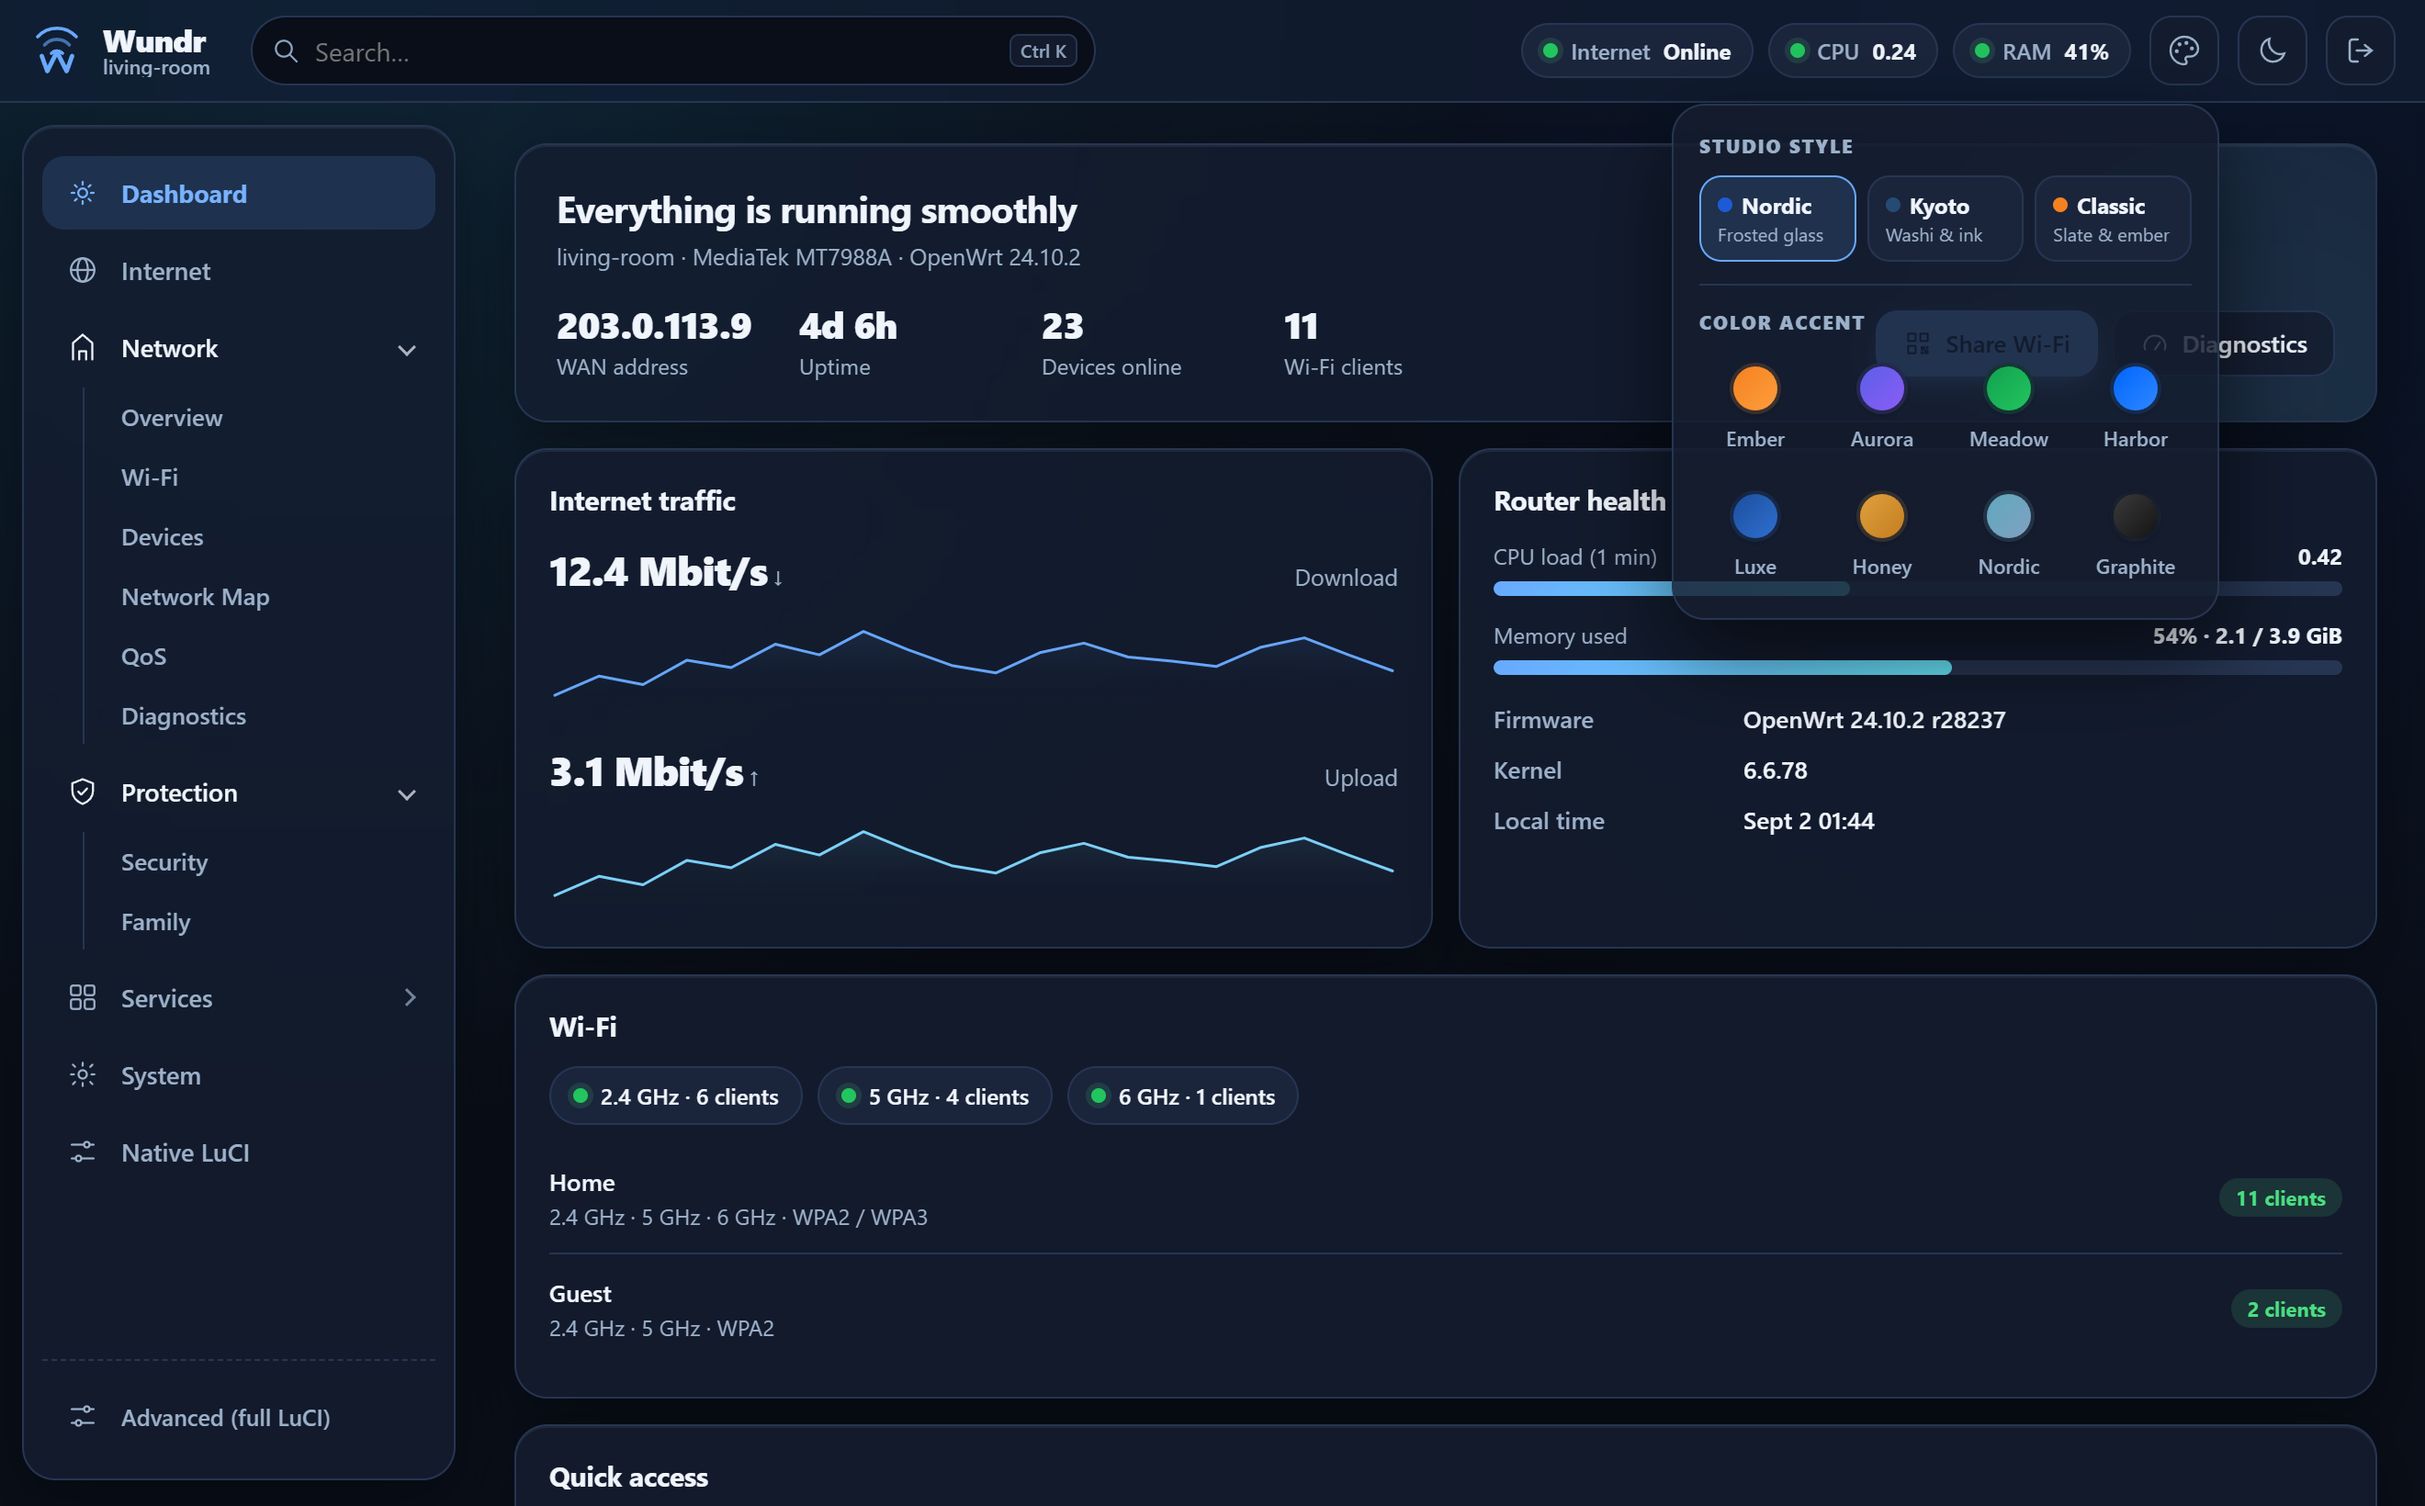
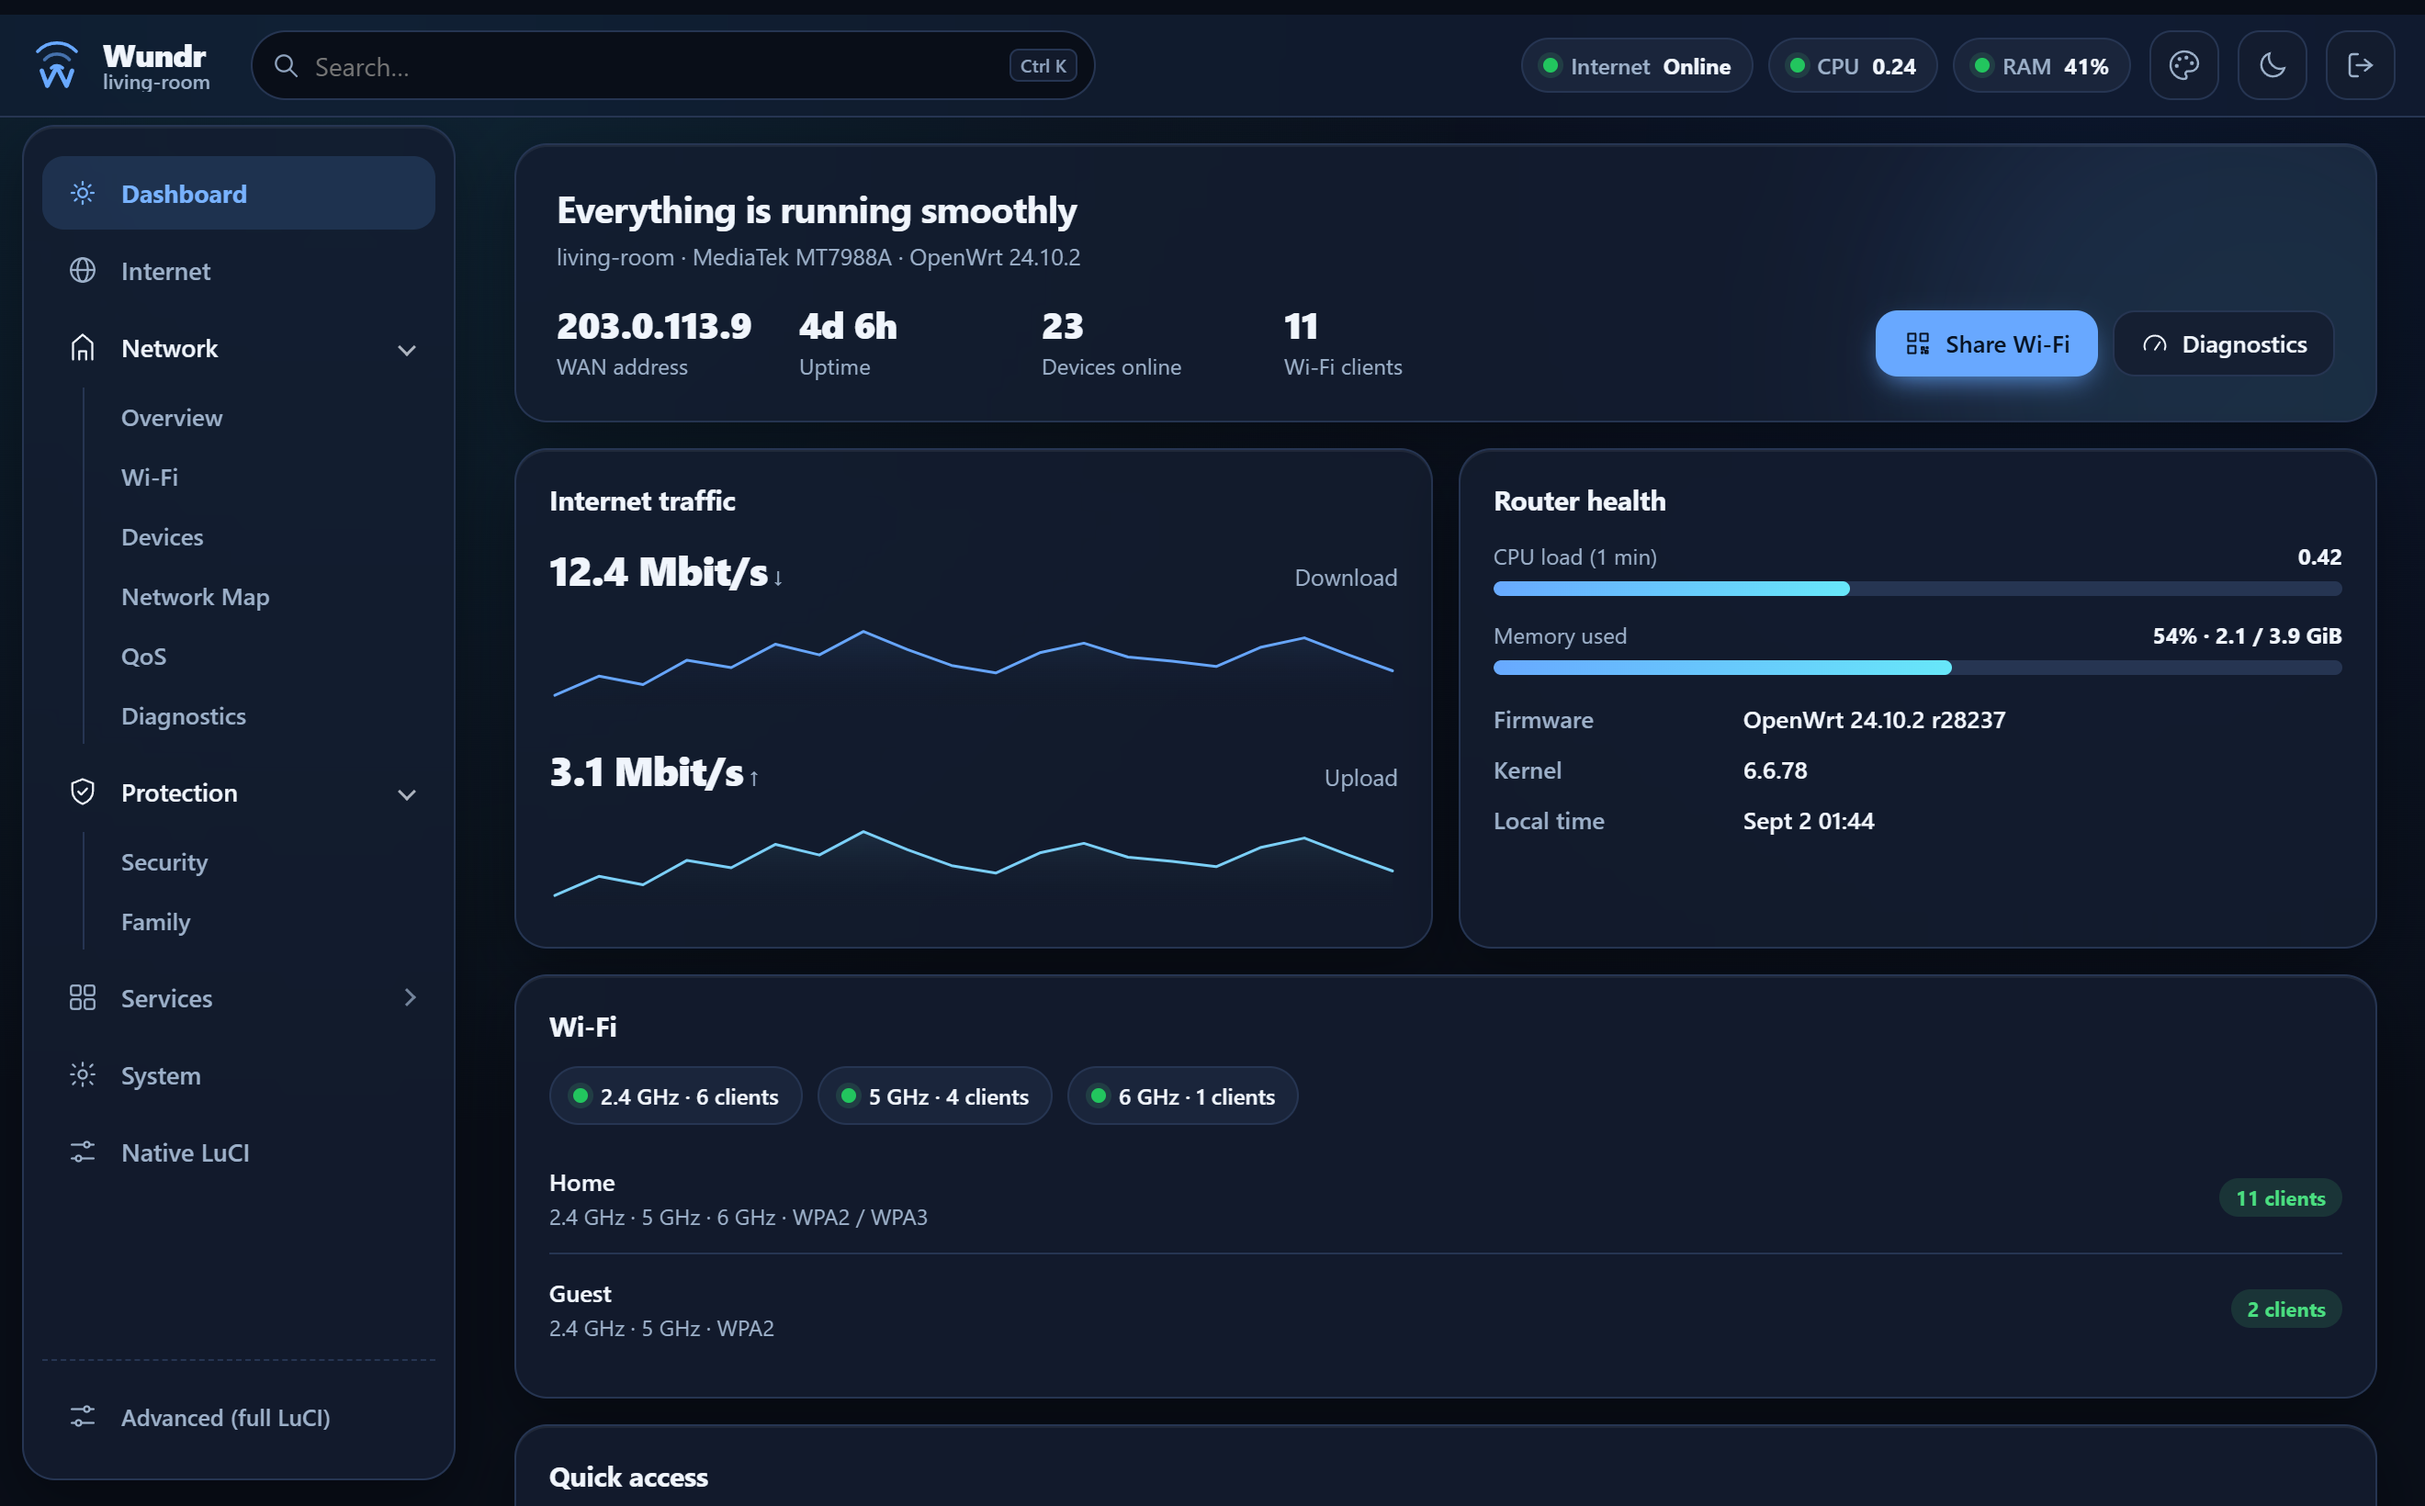
ci & docs: fix CI QR/artifact steps and clean up README/UI copy

diff --git a/luci-theme-wundr/htdocs/luci-static/wundr/shell.js b/luci-theme-wundr/htdocs/luci-static/wundr/shell.js
@@ -22,8 +22,8 @@
 	var GRAPHITE_KEYS = Object.keys(GRAPHITE.dark);
 	var STUDIOS = [
 		{ key: 'nordic',  label: 'Nordic',  sub: 'Frosted glass', c: '#1d5bd6' },
-		{ key: 'kyoto',   label: 'Kyoto',   sub: 'Washi & ink',   c: '#264b73' },
-		{ key: 'current', label: 'Classic', sub: 'Slate & ember', c: '#f48120' }
+		{ key: 'kyoto',   label: 'Kyoto',   sub: 'Paper & ink',   c: '#264b73' },
+		{ key: 'current', label: 'Classic', sub: 'Slate & orange',c: '#f48120' }
 	];
 
 	var currentStudio = 'nordic';
@@ -68,7 +68,7 @@
 		return 'rgba(' + r[0] + ', ' + r[1] + ', ' + r[2] + ', ' + (dark ? '0.18' : '0.14') + ')';
 	}
 
-	/* ---------- theme, studio triad & palette ---------- */
+	/* ---------- theme & palette ---------- */
 	function isDark() { return d.documentElement.getAttribute('data-theme') === 'dark'; }
 
 	function clearInlineAppearance(root) {
@@ -161,10 +161,10 @@
 		if (!pop) return;
 		var hasCustomAccent = !!currentPalette && !(currentStudio === 'current' && currentPalette === 'Splunk');
 		pop.innerHTML =
-			'<div class="wb-popover-h"><span>Studio style</span></div>' +
+			'<div class="wb-popover-h"><span>Theme</span></div>' +
 			'<div class="wb-studio-grid"></div>' +
-			'<div class="wb-popover-h"><span>Color accent</span>' +
-				(hasCustomAccent ? '<button type="button" class="wb-popover-reset">Studio default</button>' : '') +
+			'<div class="wb-popover-h"><span>Accent</span>' +
+				(hasCustomAccent ? '<button type="button" class="wb-popover-reset">Reset</button>' : '') +
 			'</div>' +
 			'<div class="wb-palette-grid"></div>';
 

diff --git a/luci-theme-wundr/htdocs/luci-static/wundr/cascade.css b/luci-theme-wundr/htdocs/luci-static/wundr/cascade.css
@@ -48,7 +48,7 @@
   color-scheme: dark;
 }
 
-/* Studio Triad: Nordic Glass (spatial frosted acrylic + floating island) */
+/* Theme: Nordic (frosted glass + floating sidebar) */
 [data-studio="nordic"] {
   --wb-bg: #eaf0f7; --wb-bg-2: #dfe8f3;
   --wb-surface: rgba(255, 255, 255, .88); --wb-surface-2: #f1f5fb;
@@ -83,7 +83,7 @@
   --wb-focus-ring: 0 0 0 3px rgba(104, 168, 255, .38);
 }
 
-/* Studio Triad: Kyoto Sumi (washi paper, Ai-iro indigo & de-boxed ledgers) */
+/* Theme: Kyoto (warm paper, indigo & ledger rows) */
 [data-studio="kyoto"] {
   --wb-bg: #f2efe7; --wb-bg-2: #e7e3d8;
   --wb-surface: #faf9f5; --wb-surface-2: #efece3;
@@ -778,7 +778,7 @@ body.modal-overlay-active #modal_overlay { opacity: 1; visibility: visible; }
 }
 @media (max-width: 480px) { .wb-content .hide-xs { display: none !important; } }
 
-/* Studio Triad architectural surfaces & geometry */
+/* Theme layout overrides */
 [data-studio="nordic"] body.wundr {
   background-image: radial-gradient(circle at 14% 0%, rgba(56, 189, 248, .13), transparent 44%),
                     radial-gradient(circle at 86% 10%, rgba(29, 91, 214, .10), transparent 40%);

diff --git a/smoke/contrast-check.js b/smoke/contrast-check.js
@@ -110,7 +110,7 @@ check('on-accent #14151a on Splunk accent', '#14151a', '#f48120');
 check('Splunk accent on dark surface', '#f48120', DARK_SURFACE);
 check('Splunk accent on dark soft18', '#f48120', blend('#f48120', 0.18, DARK_SURFACE));
 
-console.log('== Studio Triad (Nordic Glass & Kyoto Sumi) WCAG AA ==');
+console.log('== Nordic & Kyoto themes WCAG AA ==');
 var NORDIC_L_SURF = blend('#ffffff', 0.88, '#eaf0f7');
 var NORDIC_D_SURF = blend('#141d2f', 0.84, '#090e18');
 check('Nordic light text on surface', '#0f172a', NORDIC_L_SURF);

diff --git a/luci-theme-wundr/htdocs/luci-static/wundr/palette-boot.js b/luci-theme-wundr/htdocs/luci-static/wundr/palette-boot.js
@@ -1,4 +1,4 @@
-/* Wundr palette-boot.js — synchronous pre-paint studio & palette boot. */
+/* Wundr palette-boot.js - pre-paint theme and accent boot. */
 (function () {
 	'use strict';
 	var PALETTES = {

diff --git a/README.md b/README.md
@@ -1,74 +1,76 @@
 <div align="center">
 
-<img src="luci-theme-wundr/htdocs/luci-static/wundr/brand-mark.svg" width="52" alt="Wundr">
+<img src="luci-theme-wundr/htdocs/luci-static/wundr/brand-mark.svg" width="48" alt="Wundr">
 
 # Wundr
 
-**A calm, studio-crafted interface and LuCI theme for OpenWrt.**
+Modern LuCI theme and management UI for OpenWrt.
 
-OpenWrt 23.05 · 24.10 · 25.12+ &nbsp;·&nbsp; `opkg` & `apk` &nbsp;·&nbsp; 100% Offline &nbsp;·&nbsp; Apache-2.0
+OpenWrt 23.05 · 24.10 · 25.12+ &nbsp;·&nbsp; `opkg` & `apk` &nbsp;·&nbsp; Offline · ~40 KB gz &nbsp;·&nbsp; Apache-2.0
 
 </div>
 
 <br>
 
-![Wundr Dashboard in Nordic Glass with Studio Triad switcher](docs/screenshots/nordic-dark-dashboard.png)
+![Wundr Dashboard](docs/screenshots/nordic-dark-dashboard.png)
 
 <br>
 
-Wundr makes everyday router tasks effortless while keeping stock OpenWrt intact underneath. Every setting commits through LuCI's native UCI validation and 90-second rollback guard—no external CDNs, no telemetry, and ~40 KB gzipped total.
+Wundr puts daily router setup on a clean, mobile-friendly interface while using stock OpenWrt underneath. Every change goes through LuCI's standard UCI validation and 90-second rollback protection, with no external fonts, CDNs, or background services.
+
+Install both packages for the full interface, or `luci-theme-wundr` alone to skin stock LuCI.
 
 <br>
 
-## Studio Triad
+## Themes
 
-Switch instantly between three architectural finishes, Light or Dark mode, and eight WCAG AA–verified color accents from the top bar.
+Switch between three built-in looks, Light or Dark mode, and eight WCAG AA color accents from the top bar.
 
-| Finish | Materiality |
+| Theme | Description |
 | :--- | :--- |
-| **Nordic Glass** *(Default)* | Frosted acrylic surfaces, subtle Fjord glow, and a floating sidebar island. |
-| **Kyoto Sumi** | Warm *washi* paper by day, deep *sumi* charcoal by night, and quiet ledger rows. |
-| **Classic** | Crisp neutral slate with warm ember accents and tactile card elevation. |
+| **Nordic** *(Default)* | Translucent frosted cards and a detached sidebar on desktop. |
+| **Kyoto** | Warm paper in light mode, dark charcoal at night, and flat divider rows. |
+| **Classic** | Neutral slate cards with orange status accents. |
 
 <table>
   <tr>
     <td width="50%">
-      <img src="docs/screenshots/kyoto-light-wifi.png" alt="Kyoto Sumi Light — Wi-Fi & Radios">
-      <p align="center"><sub><b>Kyoto Sumi · Light</b> — Multi-band Wi-Fi 7 &amp; QR sharing</sub></p>
+      <img src="docs/screenshots/kyoto-light-wifi.png" alt="Kyoto Light Wi-Fi">
+      <p align="center"><sub><b>Kyoto · Light</b> · Multi-band Wi-Fi &amp; QR sharing</sub></p>
     </td>
     <td width="50%">
-      <img src="docs/screenshots/classic-dark-security.png" alt="Classic Dark — Security & Port Forwards">
-      <p align="center"><sub><b>Classic · Dark</b> — Firewall posture &amp; port forwards</sub></p>
+      <img src="docs/screenshots/classic-dark-security.png" alt="Classic Dark Security">
+      <p align="center"><sub><b>Classic · Dark</b> · Firewall audit &amp; port forwards</sub></p>
     </td>
   </tr>
 </table>
 
 <br>
 
-## Policy Network Map
+## Network Map
 
-Every curve reflects an actual `/etc/config/firewall` forwarding or device rule—never guessed. Hover any segment or client to isolate its policy paths, or click a dot to inspect it.
+Draws live zones, DHCP clients, forwardings, and pause rules straight from `/etc/config/firewall`. Hover a zone or client to highlight its rules, or click a dot to inspect the device.
 
-![Wundr Policy Network Map](docs/screenshots/network-map.png)
+![Wundr Network Map](docs/screenshots/network-map.png)
 
 <br>
 
-## Everything You Need
+## What's Included
 
-| Area | Included |
+| Section | Coverage |
 | :--- | :--- |
-| **Dashboard & Search** | Live WAN sparklines, CPU/RAM health rail, offline Wi-Fi QR generator, and `Ctrl + K` page search. |
-| **Internet & VLANs** | DHCP, PPPoE, Static IP, MAC clone, IPv6 SLAAC/DHCPv6, static leases, and guided `802.1Q` VLAN segments. |
-| **Wi-Fi & Devices** | `2.4 / 5 / 6 GHz` (`HT`–`EHT320`), one-tap guest network wizard, live signal bars, and device pause. |
-| **Family & Security** | Kernel-enforced `fw4` bedtime schedules, firewall posture audit, and quick port forwarding. |
-| **QoS, Apps & System** | `cake` / `fq_codel` SQM shaping, service controls (`AdGuard`, `Tailscale`, `WireGuard`, `banIP`…), ping/trace, and logs. |
-| **Native LuCI** | Slide-out drawer for every stock OpenWrt page—or install `luci-theme-wundr` standalone. |
+| **Dashboard** | Live WAN throughput charts, CPU/RAM status rail, Wi-Fi QR sharing, and `Ctrl + K` search. |
+| **Internet & LAN** | DHCP, PPPoE, Static IP, MAC clone, MTU, IPv6 SLAAC/DHCPv6, and static DHCP leases. |
+| **VLANs** | Guided `802.1Q` bridge-VLAN editor (`br-lan.<vid>`, DHCP pool, firewall zone, port tag matrix). |
+| **Wi-Fi & Devices** | `2.4 / 5 / 6 GHz` (`HT` to `EHT320`), guest Wi-Fi wizard, live dBm signal bars, and device pause. |
+| **Family & Security** | Per-person `fw4` bedtime schedules, firewall posture checks, and quick port forwarding. |
+| **QoS, Apps & System** | `cake` / `fq_codel` SQM shaping, service controls (`AdGuard`, `Tailscale`, `WireGuard`, `banIP`), ping/trace, and logs. |
 
 <br>
 
 ## Install
 
-Grab the universal (`all`) packages for your OpenWrt version from [**Releases**](https://github.com/Gabanaut/wundr/releases).
+Download the universal (`all`) packages for your OpenWrt release from [**Releases**](https://github.com/Gabanaut/wundr/releases).
 
 **OpenWrt 24.10 & 23.05 (`opkg`)**
 
@@ -84,16 +86,17 @@ scp luci-theme-wundr-*.apk luci-app-wundr-*.apk root@192.168.1.1:/tmp/
 ssh root@192.168.1.1 'apk add --allow-untrusted /tmp/luci-theme-wundr-*.apk /tmp/luci-app-wundr-*.apk && /etc/init.d/rpcd restart'
 ```
 
-For SDK builds, theme-only setup, or clean uninstall commands, see [docs/PACKAGING.md](docs/PACKAGING.md).
+SDK build instructions and uninstall steps are in [docs/PACKAGING.md](docs/PACKAGING.md).
 
 <br>
 
-## Verify & License
+## Test & License
 
 ```sh
-sh smoke/qa-static.sh   # syntax, WCAG AA contrast, QR round-trip, map geometry & OpenWrt 24/25 checks
+sh smoke/qa-static.sh
 ```
 
-Apache-2.0 — see [LICENSE](LICENSE) and [NOTICE](NOTICE).
+Licensed under Apache-2.0. See [LICENSE](LICENSE) and [NOTICE](NOTICE).
+
 
 

diff --git a/docs/PACKAGING.md b/docs/PACKAGING.md
@@ -73,8 +73,8 @@ Both Makefiles set `LUCI_MINIFY_CSS:=0`, `LUCI_MINIFY_JS:=0`,
 minifiers **on** (via `luci-base`'s config symbols), and `csstidy` is a
 CSS2-era tool that mangles modern CSS (`color-mix()`, `backdrop-filter`,
 `:is()`, `:has()`, multi-stop gradients) while `jsmin` predates modern JS.
-Committed CSS/JS ships byte-for-byte (~40.5 KB gzipped total for the entire
-Studio Triad shell + icons + charts + QR encoder + SVG topology engine).
+Committed CSS/JS ships byte-for-byte (~40.5 KB gzipped total for the theme
+shell, icons, charts, QR encoder, and SVG topology engine).
 
 ### What lands where
 
